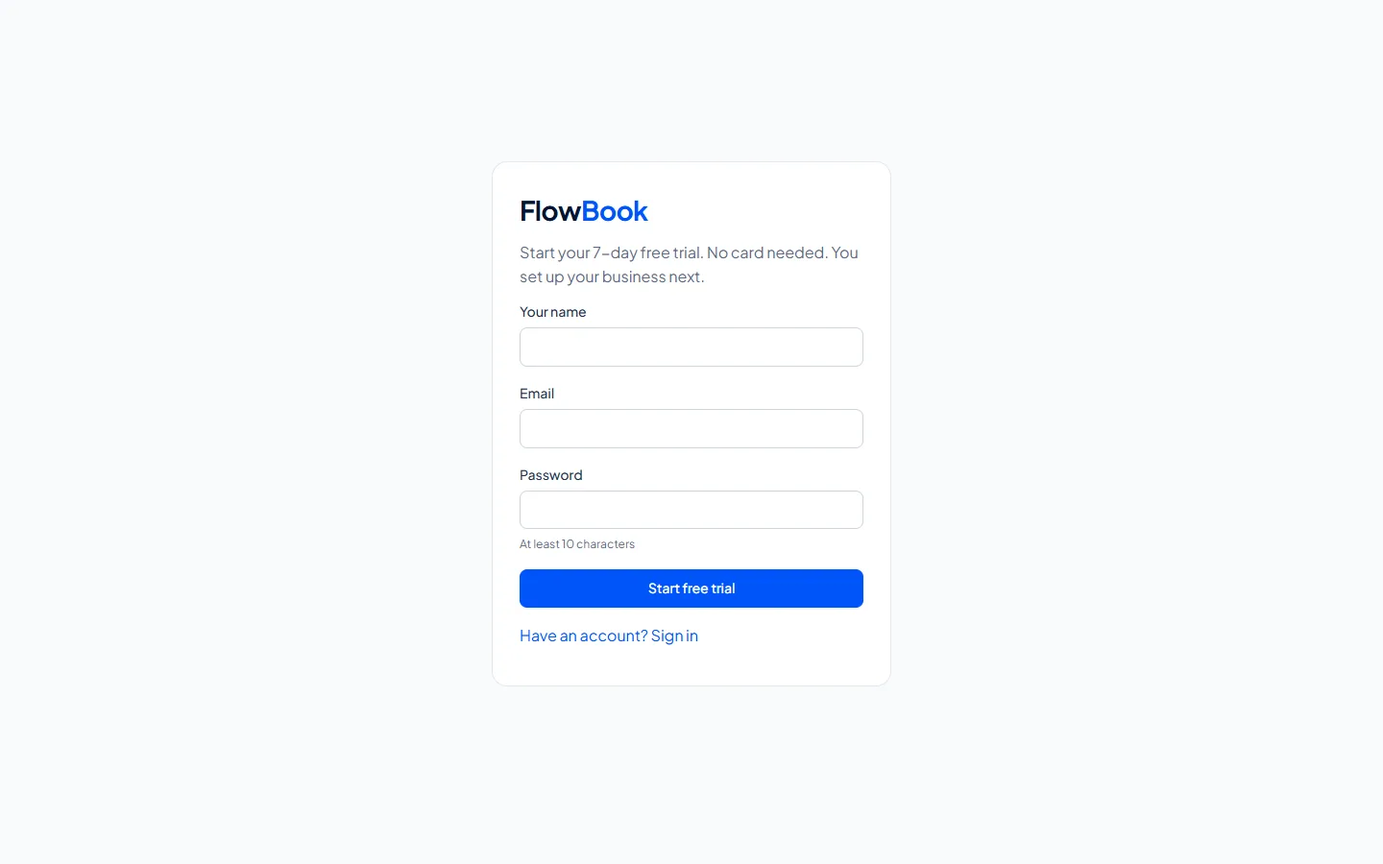
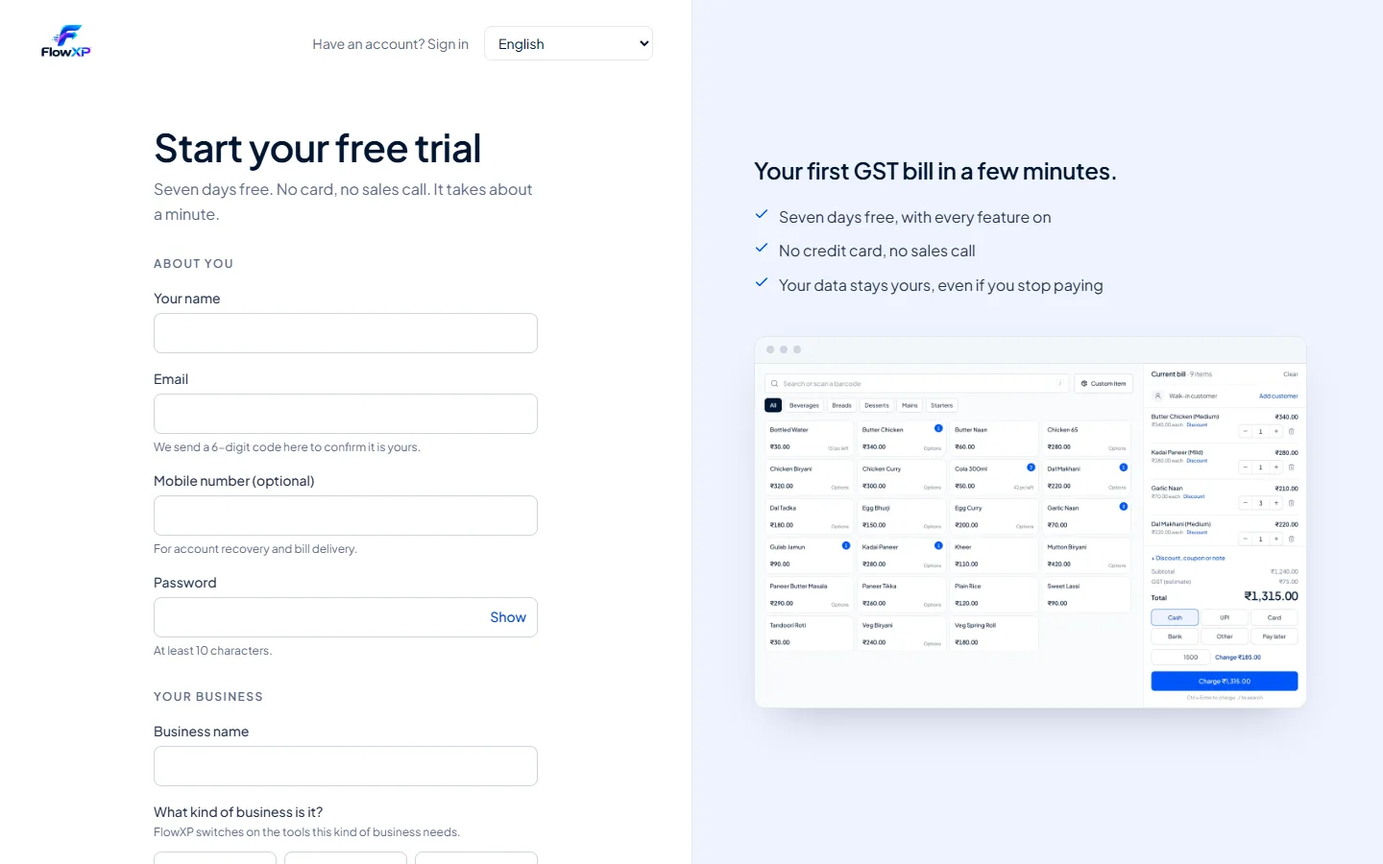
One sign-in: FlowBook opens from FlowXP with a signed handoff and follows the FlowXP trial; FlowBook login screen removed; website buttons use FlowXP signup/login; 116 tests

diff --git a/flowbook/web/src/App.jsx b/flowbook/web/src/App.jsx
@@ -1,5 +1,5 @@
-import { useState } from 'react';
-import { NavLink, Navigate, Route, Routes, useLocation } from 'react-router-dom';
+import { useEffect, useState } from 'react';
+import { NavLink, Navigate, Route, Routes, useLocation, useNavigate } from 'react-router-dom';
 import { api } from './api.js';
 import { SessionProvider, useSession } from './session.jsx';
 import { SITE_URL, wordmark } from './lib.js';
@@ -58,26 +58,24 @@ const Icon = ({ name }) => <svg viewBox="0 0 24 24" aria-hidden="true"><path d={
 const Wordmark = () => { const [a, b] = wordmark(); return <span className="wordmark">{a}<span>{b}</span></span>; };
 const initials = (name = '') => name.split(/s+/).filter(Boolean).slice(0, 2).map((w) => w[0]).join('').toUpperCase() || 'B';
 
+/* There is no FlowBook password. FlowXP is the one sign-in: this page takes the signed handoff FlowXP sends (in the address
+   after #), trades it for a FlowBook session, and anyone arriving signed out is sent to FlowXP to sign in or start the free trial. */
+const FLOWXP_LOGIN = `${SITE_URL}/login?next=${encodeURIComponent('/app/flowbook?open=1')}`;
 const AuthScreen = () => {
   const { signIn } = useSession();
-  const loc = useLocation();
-  const [mode, setMode] = useState(() => (loc.pathname === '/signup' || new URLSearchParams(loc.search).get('mode') === 'signup' ? 'register' : 'login'));   // the website's Start free trial lands here
-  const [f, setF] = useState({ name: '', email: '', password: '' });
+  const handoff = useLocation().pathname === '/sso' ? window.location.hash.slice(1) : '';
+  const navigate = useNavigate();
   const a = useAction();
-  const set = (k) => (e) => setF({ ...f, [k]: e.target.value });
-  const submit = (e) => { e.preventDefault(); a.run(() => (mode === 'login' ? signIn('/auth/login', { email: f.email, password: f.password }) : signIn('/auth/register', f))); };
+  useEffect(() => {
+    if (!handoff) { window.location.replace(FLOWXP_LOGIN); return; }
+    a.run(async () => { await signIn('/auth/flowxp', { token: handoff }); navigate('/', { replace: true }); });   // replaces whoever was signed in here before
+  }, []);
   return (
     <div className="auth"><Card>
       <Wordmark />
-      <p className="muted">{mode === 'login' ? 'Sign in to your books.' : 'Start your 7-day free trial. No card needed. You set up your business next.'}</p>
-      <Err>{a.error}</Err>
-      <form className="form" onSubmit={submit}>
-        {mode === 'register' && <Field label="Your name"><input value={f.name} onChange={set('name')} required autoComplete="name" /></Field>}
-        <Field label="Email"><input type="email" value={f.email} onChange={set('email')} required autoComplete="email" /></Field>
-        <Field label="Password" hint={mode === 'register' ? 'At least 10 characters' : undefined}><input type="password" value={f.password} onChange={set('password')} required autoComplete={mode === 'login' ? 'current-password' : 'new-password'} /></Field>
-        <Btn kind="primary" busy={a.busy}>{mode === 'login' ? 'Sign in' : 'Start free trial'}</Btn>
-      </form>
-      <p className="muted"><button className="linkish" onClick={() => { a.setError(''); setMode(mode === 'login' ? 'register' : 'login'); }}>{mode === 'login' ? 'New here? Start a 7-day free trial' : 'Have an account? Sign in'}</button></p>
+      {a.error
+        ? <><Err>{a.error}</Err><p className="muted"><a href={FLOWXP_LOGIN}>Open FlowBook from FlowXP</a></p></>
+        : <p className="muted">Signing you in with FlowXP... <a href={FLOWXP_LOGIN}>Continue to FlowXP</a></p>}
     </Card></div>
   );
 };
@@ -192,6 +190,7 @@ const Shell = () => {
 
 const Gate = () => {
   const { ready, user } = useSession();
+  if (useLocation().pathname === '/sso') return <AuthScreen />;
   if (!ready) return <div className="auth"><Loading /></div>;
   return user ? <Shell /> : <AuthScreen />;
 };

diff --git a/flowbook/api/src/sso.ts b/flowbook/api/src/sso.ts
@@ -1,0 +1,46 @@
+/*
+ * One sign-in. FlowXP signs the person in and hands them over with a token it signs with the secret both servers share
+ * (FLOWBOOK_SSO_SECRET): who they are, which FlowXP business, their role, and that business's own trial or plan. FlowBook
+ * keeps no password for them. The trial is FlowXP's: the books' plan and trial end are copied from the business each time.
+ */
+import { createHmac, timingSafeEqual } from 'node:crypto';
+import type pg from 'pg';
+import { provisionOrganization } from './provision.ts';
+
+export type Handoff = { sub: string; email: string; name: string; bid: string; bname: string; role: string; status: string; tend: string | null; exp: number };
+
+/** The handoff if the signature is right and it has not expired (it lives 60 seconds), else null. */
+export const readHandoff = (token: string, secret: string, now = Date.now()): Handoff | null => {
+  const [body, sig] = token.split('.');
+  if (!secret || !body || !sig) return null;
+  const want = createHmac('sha256', secret).update(body).digest();
+  const got = Buffer.from(sig, 'base64url');
+  if (got.length !== want.length || !timingSafeEqual(got, want)) return null;
+  try {
+    const h = JSON.parse(Buffer.from(body, 'base64url').toString()) as Handoff;
+    return typeof h.exp === 'number' && h.exp > now && h.sub && h.email && h.bid ? h : null;
+  } catch { return null; }
+};
+
+const ROLE: Record<string, string> = { OWNER: 'owner', ADMIN: 'admin' };
+
+/** Find or make the person and the business's books, add them if new, and copy the trial. Returns null for a role that may not open the books. */
+export const signInFromFlowxp = async (pool: pg.Pool, h: Handoff): Promise<{ userId: bigint; orgId: bigint } | null> => {
+  let user = (await pool.query(`SELECT id FROM users WHERE lower(email) = lower($1) AND status = 'ACTIVE'`, [h.email])).rows[0];
+  if (!user) user = (await pool.query(`INSERT INTO users (email, name, password_hash) VALUES ($1, $2, 'flowxp-sign-in') RETURNING id`, [h.email, h.name || h.email])).rows[0];
+  const userId = user.id as bigint;
+  let org = (await pool.query(`SELECT id FROM organizations WHERE flowxp_business_id = $1`, [h.bid])).rows[0];
+  const role = ROLE[h.role] ?? 'viewer';
+  if (!org) {
+    if (!ROLE[h.role]) return null;   // the first person in must be the owner or an admin
+    const id = await provisionOrganization(pool, { name: h.bname || 'My business', ownerUserId: userId });
+    await pool.query('UPDATE organizations SET flowxp_business_id = $2 WHERE id = $1', [id, h.bid]);
+    org = { id };
+  }
+  await pool.query(`INSERT INTO memberships (organization_id, user_id, role) VALUES ($1, $2, $3) ON CONFLICT (organization_id, user_id) DO NOTHING`, [org.id, userId, role]);
+  // FlowXP's trial is the trial: a paid business is ACTIVE; a trial, an ended trial or anything else follows the trial end it reports
+  const paid = h.status === 'ACTIVE';
+  const end = h.status === 'TRIAL' && h.tend ? h.tend : new Date(Math.min(Date.parse(h.tend ?? '') || Date.now(), Date.now())).toISOString();
+  await pool.query(`UPDATE organizations SET plan = $2, trial_ends_at = $3 WHERE id = $1`, [org.id, paid ? 'ACTIVE' : 'TRIAL', end]);
+  return { userId, orgId: org.id as bigint };
+};

diff --git a/frontend/src/site/FlowBookPage.jsx b/frontend/src/site/FlowBookPage.jsx
@@ -1,14 +1,15 @@
 /*
  * /flowbook: ManagerXP's accounting product. The screens are real FlowBook (a demo shop's books), and the page says
  * plainly what works and what is not built, so nothing here claims a filing or a bank connection that does not exist.
- * The trial buttons go to the FlowBook app (VITE_FLOWBOOK_APP_URL); where that is not set they fall back to Contact.
+ * The buttons use the FlowXP sign-up and login; FlowXP then opens FlowBook signed in.
  */
 import { Button, Section } from '../components/ui.jsx';
 import { Check, CellGrid, Connector, Cross, FeatureRow, FinalCta, Node, PageHero, Shot } from './parts.jsx';
 
-const APP = import.meta.env.VITE_FLOWBOOK_APP_URL;
-const trial = APP ? { href: `${APP}/signup` } : { to: '/contact' };
-const login = APP ? { href: `${APP}/login` } : { to: '/contact' };
+/* One sign-in: the FlowXP account is the FlowBook account, and the FlowXP free trial is the FlowBook trial. */
+const NEXT = '?next=%2Fapp%2Fflowbook%3Fopen%3D1';
+const trial = { to: `/signup${NEXT}` };
+const login = { to: `/login${NEXT}` };
 const FULL = { width: 1440, height: 900 };
 
 const Flow = () => (
@@ -31,9 +32,9 @@ const Flow = () => (
 
 const Steps = () => (
   <div className="grid items-center gap-3 sm:grid-cols-[1fr_auto_1fr_auto_1fr]">
-    <Node title="1. Sign up" body="Email and password. No card." />
+    <Node title="1. Sign up" body="One FlowXP account. No card." />
     <Connector />
-    <Node title="2. Set up your business" body="Pick a template; accounts are made for you." />
+    <Node title="2. Open FlowBook" body="Signed in for you. Your books are ready." />
     <Connector />
     <Node strong title="3. Use it for 7 days" body="Everything works. Read-only after, never deleted." />
   </div>
@@ -113,11 +114,11 @@ const FlowBookPage = () => (
       <Steps />
       <div className="mt-10 grid items-center gap-8 lg:grid-cols-12">
         <ul className="space-y-2.5 lg:col-span-5">
-          <li className="flex gap-3 text-body text-ink-700"><Check />Sign up takes an email and a password</li>
-          <li className="flex gap-3 text-body text-ink-700"><Check />You choose your business type and start date</li>
+          <li className="flex gap-3 text-body text-ink-700"><Check />One account for FlowXP and FlowBook</li>
+          <li className="flex gap-3 text-body text-ink-700"><Check />Your FlowXP trial is your FlowBook trial</li>
           <li className="flex gap-3 text-body text-ink-700"><Cross />No payment details asked</li>
         </ul>
-        <div className="lg:col-span-7"><Shot src="/product/flowbook-trial.webp" alt="The FlowBook sign-up screen" size={FULL} /></div>
+        <div className="lg:col-span-7"><Shot src="/product/flowbook-trial.webp" alt="The FlowXP sign-up screen, which also opens FlowBook" size={FULL} /></div>
       </div>
     </Section>
 

diff --git a/flowbook/api/test/sso.test.ts b/flowbook/api/test/sso.test.ts
@@ -1,0 +1,35 @@
+import test from 'node:test';
+import assert from 'node:assert/strict';
+import { createHmac } from 'node:crypto';
+import { buildApp } from '../src/app.ts';
+import { setup } from './helpers.ts';
+
+process.env.FLOWBOOK_SSO_SECRET = 'test-shared-secret-test-shared-secret';
+const { pool, skip, cleanup } = await setup();
+const app = buildApp({ pool, allowedOrigins: [], limits: { register: 1000, login: 1000 } });
+test.after(async () => { await app.close(); await cleanup(); });
+
+const handoff = (over: object = {}, secret = process.env.FLOWBOOK_SSO_SECRET as string) => {
+  const body = Buffer.from(JSON.stringify({ sub: '7', email: 'owner@shop.example', name: 'Owner', bid: '42', bname: 'Corner Shop', role: 'OWNER', status: 'TRIAL', tend: new Date(Date.now() + 3 * 86400000).toISOString(), exp: Date.now() + 60000, ...over })).toString('base64url');
+  return `${body}.${createHmac('sha256', secret).update(body).digest('base64url')}`;
+};
+const go = async (token: string) => { const r = await app.inject({ method: 'POST', url: '/v1/auth/flowxp', payload: { token } }); return { status: r.statusCode, body: JSON.parse(r.body) }; };
+
+test('FlowXP sign-in opens the business books with its own trial, and a forged or old handoff is refused', { skip }, async () => {
+  assert.equal((await go(handoff({}, 'wrong-secret-wrong-secret-wrong-secret'))).status, 401);
+  assert.equal((await go(handoff({ exp: Date.now() - 1 }))).status, 401);
+
+  const a = await go(handoff());
+  assert.equal(a.status, 200);
+  const me = (await app.inject({ method: 'GET', url: '/v1/me', headers: { authorization: `Bearer ${a.body.token}` } })).json();
+  assert.equal(me.organizations.length, 1);
+  assert.equal(me.organizations[0].plan, 'TRIAL'); assert.equal(me.organizations[0].trial_days_left, 3);
+
+  const b = await go(handoff({ status: 'ACTIVE' }));   // the second visit finds the same books and follows the plan
+  assert.equal(b.body.organizationId, a.body.organizationId);
+  assert.equal((await app.inject({ method: 'GET', url: '/v1/me', headers: { authorization: `Bearer ${b.body.token}` } })).json().organizations[0].plan, 'ACTIVE');
+
+  const staff = await go(handoff({ sub: '8', email: 'till@shop.example', role: 'STAFF', status: 'ACTIVE' }));   // staff join as viewers
+  assert.equal(staff.status, 200);
+  assert.equal((await go(handoff({ bid: '99', email: 'x@y.example', role: 'STAFF' }))).status, 403, 'staff cannot be the first in');
+});

diff --git a/flowbook/api/src/app.ts b/flowbook/api/src/app.ts
@@ -15,6 +15,7 @@ import { registerIntegrationRoutes } from './integration-routes.ts';
 import { setPeriodStatus } from './periods.ts';
 import type { PeriodStatus } from './periods.ts';
 import { TEMPLATES } from './coa.ts';
+import { readHandoff, signInFromFlowxp } from './sso.ts';
 
 type Session = { sessionId: bigint; userId: bigint; email: string; name: string; viaCookie: boolean };
 type OrgScope = { id: bigint; role: Role };
@@ -148,6 +149,17 @@ export const buildApp = (opts: AppOptions): FastifyInstance => {
     if (!user || !ok || user.status !== 'ACTIVE') return reply.code(401).send({ error: { code: 'bad_credentials', message: 'email or password is wrong' } });
     const token = await startSession(req, reply, user.id as bigint);
     return { user: { id: user.id, name: user.name, email: user.email }, token };
+  });
+
+  /** The one sign-in: FlowXP's signed handoff in, a FlowBook session out. */
+  app.post('/v1/auth/flowxp', { schema: { body: { type: 'object', required: ['token'], additionalProperties: false, properties: { token: { type: 'string', maxLength: 2000 } } } } }, async (req, reply) => {
+    if (throttled(`sso:${req.ip}`, opts.limits?.login ?? 8 * 5)) return reply.code(429).send({ error: { code: 'rate_limited', message: 'too many attempts; wait a few minutes' } });
+    const h = readHandoff((req.body as { token: string }).token, process.env.FLOWBOOK_SSO_SECRET ?? '');
+    if (!h) return reply.code(401).send({ error: { code: 'bad_handoff', message: 'that sign-in link is not valid or has expired; open FlowBook again from FlowXP' } });
+    const r = await signInFromFlowxp(pool, h);
+    if (!r) return reply.code(403).send({ error: { code: 'ask_owner', message: 'ask the owner or an admin of this business to open FlowBook first' } });
+    const token = await startSession(req, reply, r.userId);
+    return { user: { id: r.userId, name: h.name, email: h.email }, token, organizationId: r.orgId };
   });
 
   app.post('/v1/auth/logout', async (req, reply) => {

diff --git a/frontend/src/app/FlowBookPage.jsx b/frontend/src/app/FlowBookPage.jsx
@@ -21,6 +21,10 @@ const FlowBookPage = () => {
   const [error, setError] = useState('');
   const [notice, setNotice] = useState('');
 
+  /* One sign-in: FlowXP hands you to FlowBook already signed in, with this business's trial. `?open=1` (from the website's FlowBook page) does it on arrival. */
+  const openBook = () => run('open', async () => { const r = await api('/flowbook/launch', { method: 'POST' }); window.location.assign(r.url); });
+  useEffect(() => { if (new URLSearchParams(window.location.search).get('open') === '1') openBook(); }, []);
+
   const load = () => api('/flowbook').then((d) => {
     setData(d);
     if (d.link) { setUrl(d.link.base_url); setEnabled(d.link.enabled); }
@@ -47,13 +51,19 @@ const FlowBookPage = () => {
     await load();
   });
 
-  if (!data) return <div><PageHeader title="FlowBook" lead="Send every sale to your books." /><Alert>{error}</Alert></div>;
+  if (!data) return <div><PageHeader title="FlowBook" lead="Send every sale to your books." /><Alert>{error}</Alert>{busy === 'open' && <p className="text-sm text-ink-500" role="status">Opening FlowBook...</p>}</div>;
   const { link, counts, problems } = data;
 
   return (
     <div className="space-y-6">
       <PageHeader title="FlowBook" lead="Every sale, return and payment goes to FlowBook as it happens, so your books and GST figures keep themselves. Only what you bill after you switch this on is sent." />
       <Alert>{error}</Alert>
+      <Card>
+        <div className="flex flex-wrap items-center justify-between gap-3">
+          <p className="text-sm text-ink-500">Your FlowXP sign-in and free trial work in FlowBook too. No second login.</p>
+          <Button onClick={openBook} loading={busy === 'open'}>Open FlowBook</Button>
+        </div>
+      </Card>
       {notice && <p className="text-sm text-success" role="status">{notice}</p>}
 
       <Card>

diff --git a/backend/src/controllers/flowbook.controller.js b/backend/src/controllers/flowbook.controller.js
@@ -22,6 +22,20 @@ export const checkUrl = (value) => {
   return { url: `${u.protocol}//${u.host}` };
 };
 
+/* POST /api/flowbook/launch: the one sign-in. The person is already signed in to FlowXP, so FlowBook gets a signed 60-second
+   handoff (who they are, which business, and the business's own trial or plan) instead of asking for another password. */
+export const launch = async (req, res) => {
+  if (!config.flowbookAppUrl || !config.flowbookSsoSecret) return res.status(503).json({ success: false, message: 'FlowBook is not set up on this server yet' });
+  const u = (await pool.query(`SELECT name, email FROM users WHERE user_id = $1`, [req.tenant.userId])).rows[0];
+  const s = req.tenant.subscription;
+  const body = Buffer.from(JSON.stringify({
+    sub: String(req.tenant.userId), email: u.email, name: u.name, bid: String(req.tenant.businessId), bname: req.tenant.name, role: req.tenant.role,
+    status: s.status, tend: s.trial_ends_at, exp: Date.now() + 60_000
+  })).toString('base64url');
+  const sig = crypto.createHmac('sha256', config.flowbookSsoSecret).update(body).digest('base64url');
+  res.json({ success: true, data: { url: `${config.flowbookAppUrl}/sso#${body}.${sig}` } });
+};
+
 const status = async (businessId) => {
   const link = (await pool.query(`SELECT base_url, enabled, enabled_from, last_ok_at, last_error FROM flowbook_links WHERE business_id = $1`, [businessId])).rows[0] || null;
   const counts = Object.fromEntries((await pool.query(`SELECT status, COUNT(*)::int AS n FROM flowbook_outbox WHERE business_id = $1 GROUP BY status`, [businessId])).rows.map((r) => [r.status, r.n]));

diff --git a/backend/src/config/env.js b/backend/src/config/env.js
@@ -47,6 +47,9 @@ export const config = {
   jwtSecret: process.env.JWT_SECRET,
   // Optional. Keeps stored secrets (2FA, payment and messaging keys) on a key of their own, so rotating JWT_SECRET to sign everyone out does not break them.
   encryptionKey: process.env.ENCRYPTION_KEY || '',
+  // FlowBook sign-in: FlowXP signs the person in, then hands them to FlowBook with a short-lived token signed with this shared secret (same value in FlowBook's FLOWBOOK_SSO_SECRET).
+  flowbookAppUrl: (process.env.FLOWBOOK_APP_URL || '').replace(/\/+$/, ''),
+  flowbookSsoSecret: process.env.FLOWBOOK_SSO_SECRET || '',
   /* Phone notifications go through Expo's push service. PUSH_ENABLED=false switches them off; EXPO_PUSH_URL lets a test point at a stand-in; EXPO_ACCESS_TOKEN only if the Expo project has push security on. */
   push: {
     enabled: String(process.env.PUSH_ENABLED ?? 'true').toLowerCase() !== 'false',

diff --git a/frontend/src/auth/AuthPages.jsx b/frontend/src/auth/AuthPages.jsx
@@ -146,10 +146,14 @@ const useSubmit = () => {
 const useFinishAuth = () => {
   const { signIn } = useAuth();
   const navigate = useNavigate();
+  const [params] = useSearchParams();
+  const next = params.get('next');   // where the sign-in was asked for from, e.g. the website's FlowBook page; only places inside the app
   return (data) => {
     signIn(data.token, data.user, data.businesses);
     const first = data.businesses[0];
-    navigate(first && first.onboarding_step < 10 ? '/app/onboarding' : '/app', { replace: true });
+    const there = /^\/app(\/|$)/.test(next || '') ? next : null;
+    if (first && first.onboarding_step < 10) { try { if (there) sessionStorage.setItem('flowxp.after', there); } catch { /* storage blocked */ } }
+    navigate(first && first.onboarding_step < 10 ? '/app/onboarding' : there || '/app', { replace: true });
   };
 };
 

diff --git a/backend/src/routes/flowbook.routes.js b/backend/src/routes/flowbook.routes.js
@@ -6,6 +6,8 @@ const router = Router();
 /* Sending the business's sales to an accounting system is a business-wide setting: owner and admin, like the delivery integrations. */
 const settings = [requireAuth, withBusiness({ requireActive: true }), requirePlanFeature('flowbook'), requirePermission('settings')];
 
+// open FlowBook signed in: any member of an active business, and an ended trial still opens (read-only there)
+router.post('/launch', requireAuth, withBusiness(), flowbook.launch);
 router.get('/', ...settings, flowbook.get);
 router.put('/', ...settings, flowbook.save);
 router.post('/retry', ...settings, flowbook.retry);

diff --git a/frontend/src/app/Onboarding.jsx b/frontend/src/app/Onboarding.jsx
@@ -354,7 +354,9 @@ const Onboarding = () => {
         setIndex((i) => i + 1);
       } else {
         await refresh();
-        navigate('/app', { replace: true });
+        let after = null;   // where the person was headed when they signed up (the website's FlowBook page), kept by the sign-in
+        try { after = sessionStorage.getItem('flowxp.after'); sessionStorage.removeItem('flowxp.after'); } catch { /* storage blocked */ }
+        navigate(/^\/app(\/|$)/.test(after || '') ? after : '/app', { replace: true });
       }
     } catch (caught) {
       setError(caught.message);

diff --git a/flowbook/README.md b/flowbook/README.md
@@ -58,4 +58,4 @@ Settings, WhatsApp. Two modes, plus off:
 - **Foreign-currency bank accounts** (`bankacct.ts`, migration 0031; Bank page > Your accounts): add a bank account in rupees or a currency. A foreign account's journal lines carry the amount in its own currency beside the rupee value (`journal_lines.foreign_amount_minor`); the ledger refuses a posting to it without that amount. Buying dollars (rupees to the account) carries them at the rupees paid; selling or paying out takes them out at the account's average rupee value (`holding`/`costOfForeign` in fx.ts) and the difference from what they fetched or settled is the realised exchange gain or loss. A customer payment or vendor payment of a foreign invoice or bill can go through the matching account (`accountId`, optional `rate`, the rupees follow). Revaluation also restates these accounts (reversing next day, ignored by the booked value). Bank reconciliation of a foreign account is in its own currency; "Add entry" posts at the day's rate (deposit) or the average (withdrawal). Transfers between your accounts: `/bank/transfers` (rupees to dollars, dollars to rupees, same currency between accounts; two different foreign currencies must go through rupees), voidable. Not done: bank charges taken out of the foreign amount of a document payment, FIFO cost, foreign cash/petty accounts in expenses, per-account statement import of other currencies' formats.
 - **Fixed assets** (Books > Fixed assets, migration 0021): a register of assets with cost, scrap value and a method: straight line over a life in years (the last month takes the rounding so cost minus scrap is exactly written off), written-down value at a yearly percent (a twelfth each month), or none (land). Buying posts Dr Fixed assets against Bank, Cash, payables or, for something the business already had, opening balances (with depreciation already taken; it is dated on the first day of the books). "Post depreciation" posts every month not yet done, one entry per month (Dr Depreciation / Cr Accumulated depreciation), counting the start month as a full month, and is safe to repeat. Selling or writing off clears cost and accumulated depreciation and posts the difference to Gain or loss on sale of assets; depreciation must be up to date through the month before. An asset entered by mistake can be cancelled until depreciation is posted. GST on a sale (migration 0024): pick a GST code when selling; it is charged on top of the price, credited to output tax and included in GSTR-3B outward supplies for that month. Yearly views (`assets-tax.ts`, migration 0029; Fixed assets > Year by year, `GET /assets/schedule?fy=` and `/assets/tax-depreciation?fy=`, fy = year the April-March year starts in): the book schedule per asset (cost and accumulated depreciation at start, added, sold, at end, worth at end; each year closes into the next), and the Income Tax Act block schedule, a report that posts nothing. Each asset can be given a tax block (11 standard blocks with fixed rates in `IT_BLOCKS`; set when adding or from the list, `PATCH /assets/:id/tax`); the block's depreciation is the rate on opening value plus additions, additions used under 180 days get half rate, sale proceeds come off the block, and a block sold out or driven below zero ends as a short-term capital gain or loss instead of depreciation. An older asset takes its tax value at the start of the financial year the books begin in. Not done: additional depreciation (sec 32(1)(iia)), rates that change with acquisition date (such as certain vehicles), tax versus book difference/deferred tax, asset categories with their own book rates.
 - **Projects** (Sales > Projects, migration 0022): a project has a customer, an hourly rate and an optional budget. Log time as 1.5 or 1:30 (billable or not, with the rate fixed at the moment it is logged); "Invoice the hours" turns all unbilled billable time into a draft invoice (one line per entry, in hours) and marks it billed, and deleting or voiding that invoice frees the hours again. Invoices, bills, credit and debit notes carry an optional project, and expenses can be tagged too. The project page shows hours, still-to-bill, invoiced (before GST, less credit notes), bills and expenses (less debit notes, cancelled expenses ignored), profit and budget left. Not done: timers, per-task rates, staff timesheets and approvals.
-- **Free trial** (migration 0032, `app.ts` `scope()`): a new business starts on plan `TRIAL` with `trial_ends_at` seven days out (businesses that existed before are `ACTIVE`). After that date reads and exports still work but any write returns 402 `trial_ended`; `/v1/me` carries `plan`, `trial_ends_at`, `trial_days_left` and the app shows a banner. Switching a business on is manual for now: `UPDATE organizations SET plan = 'ACTIVE' WHERE id = ...`. Sign-up lives at `/signup` (also `?mode=signup`) in the app; the website's FlowBook page links there via `VITE_FLOWBOOK_APP_URL` (dev default in `frontend/.env.development`; production host must be set at build, else the buttons go to Contact). Not built: payment, plan upgrade screen, trial-ending emails.
+- **Free trial** (migration 0032, `app.ts` `scope()`): a new business starts on plan `TRIAL` with `trial_ends_at` seven days out (businesses that existed before are `ACTIVE`). After that date reads and exports still work but any write returns 402 `trial_ended`; `/v1/me` carries `plan`, `trial_ends_at`, `trial_days_left` and the app shows a banner. Switching a business on is manual for now: `UPDATE organizations SET plan = 'ACTIVE' WHERE id = ...`. **One sign-in, no FlowBook password** (migration 0033, `src/sso.ts`, `POST /v1/auth/flowxp`): FlowXP is the login and the free trial. `POST /api/flowbook/launch` on FlowXP returns `FLOWBOOK_APP_URL/sso#<token>`, a 60-second HMAC token (shared secret `FLOWBOOK_SSO_SECRET` in both servers' env) carrying the user, the FlowXP business, role and the business's trial status; FlowBook finds or creates the user and the books (`organizations.flowxp_business_id`; owner/admin first, other roles join as viewers) and copies `plan`/`trial_ends_at` from the business on every visit. The FlowBook web app has no login screen: signed out, it sends people to `SITE_URL/login?next=/app/flowbook?open=1` (set `VITE_SITE_URL` at build); FlowXP's login and onboarding keep `next`, and the FlowBook page in FlowXP (`?open=1`, or the Open FlowBook button) calls launch. The API's own `/auth/register` and `/auth/login` still exist (tests, scripts); block them at the proxy in production. Not built: payment, plan upgrade screen, trial-ending emails, member invites from FlowXP.
